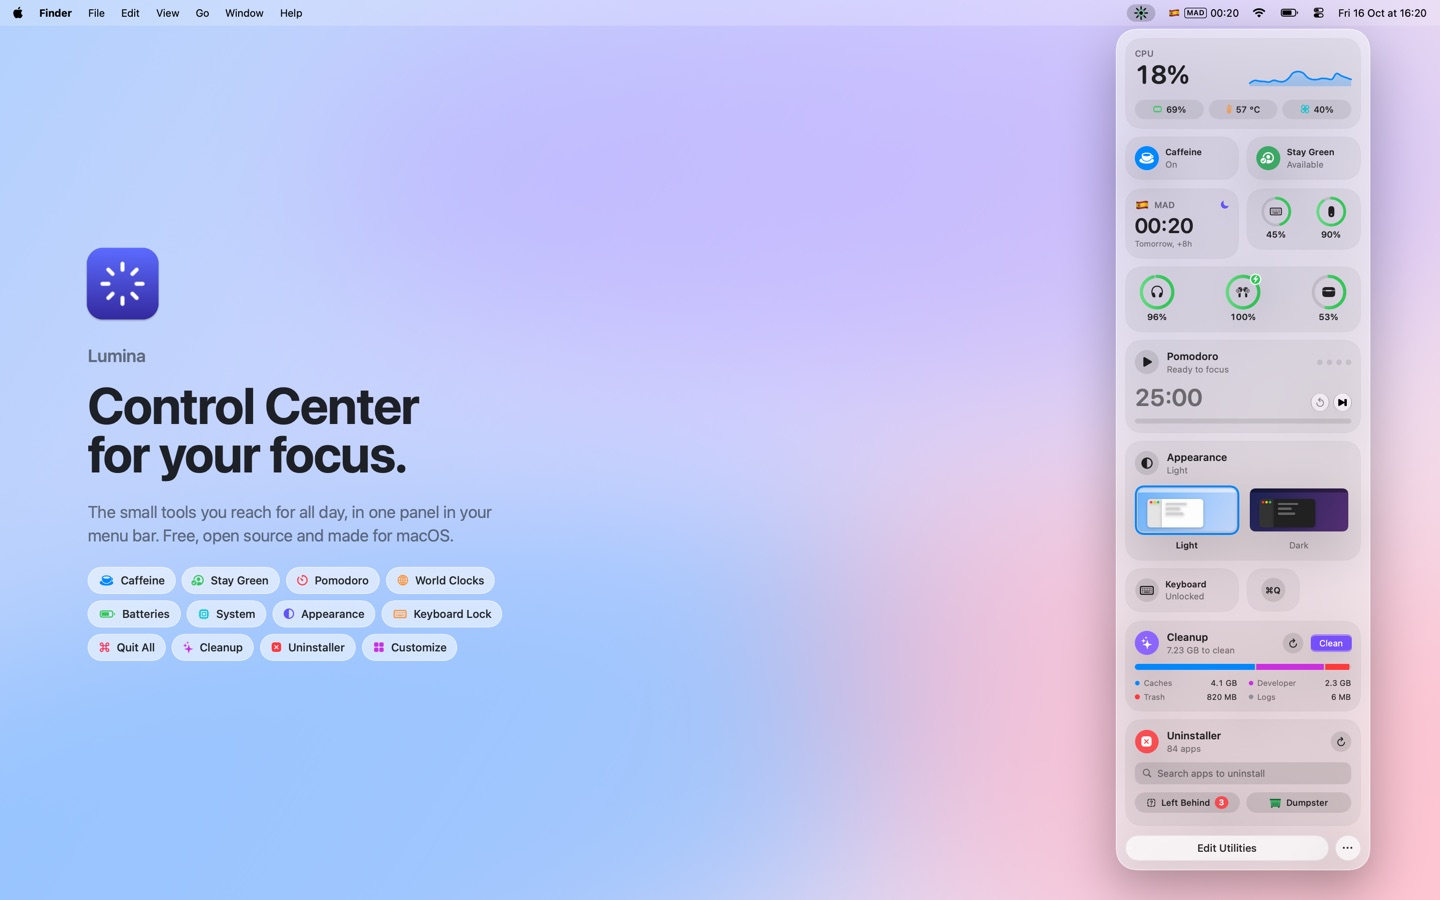
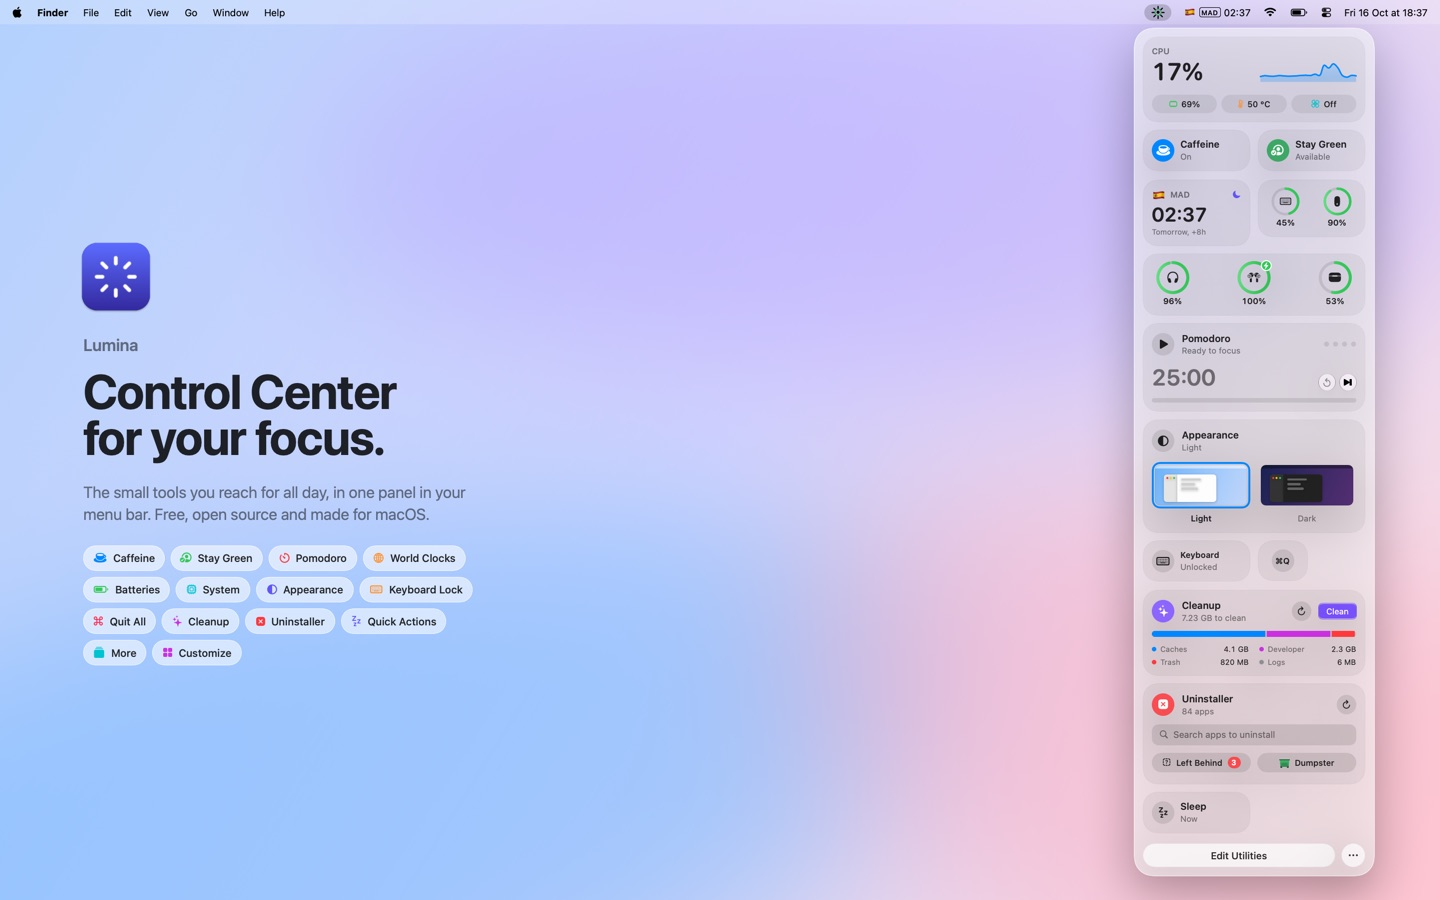
Add the More section and quick actions to the marketing images
The More section gets a feature card showing it open below two tiles,
rendered from a store whose last tiles are tucked into the section. The
quick actions get their own card, and the heroes show Sleep at the end of
the panel and a pill for each new feature. The README gallery lists both.

Changed region(s): [[0.75, 0.0, 1.0, 0.9956], [0.0312, 0.2489, 0.3438, 0.7467], [0.0312, 0.0, 0.2188, 0.0311]]

diff --git a/scripts/marketing/main.swift b/scripts/marketing/main.swift
@@ -45,9 +45,9 @@ enum Tile {
 /// A store showing exactly `tiles`, in order. Uses a throwaway defaults
 /// suite, so renders don't depend on (or change) the saved layout.
 @MainActor
-func makeStore(_ tiles: [Tile]) -> UtilityStore {
+func makeStore(_ tiles: [Tile], more: [Tile] = []) -> UtilityStore {
     let store = UtilityStore(defaults: UserDefaults(suiteName: "lumina.render.\(UUID().uuidString)")!)
-    let ids = tiles.compactMap { tile -> String? in
+    let ids = (tiles + more).compactMap { tile -> String? in
         switch tile {
         case .utility(let id):
             return id
@@ -67,6 +67,12 @@ func makeStore(_ tiles: [Tile]) -> UtilityStore {
     }
     let byID = Dictionary(uniqueKeysWithValues: store.utilities.map { ($0.id, $0) })
     store.reorder(ids.compactMap { byID[$0] })
+    if !more.isEmpty {
+        // The last `more.count` tiles go in the More section, shown open.
+        let all = ids.compactMap { byID[$0] }
+        store.reorder(main: Array(all.dropLast(more.count)), more: Array(all.suffix(more.count)))
+        store.isMoreOpen = true
+    }
     return store
 }
 
@@ -100,7 +106,7 @@ func heroLayout() -> [Tile] {
     }
     var tiles = heroTiles
     // Edit mode isn't a tile.
-    for feature in Feature.everything where !feature.isEditing {
+    for feature in Feature.everything where !feature.isEditing && feature.moreTiles.isEmpty {
         let isShown = !utilityIDs.isDisjoint(with: feature.utilityIDs)
             || (feature.newItem == .worldClock && hasClock)
             || (feature.newItem == .batteries && hasBatteries)
@@ -133,6 +139,8 @@ struct Feature {
     var isEditing = false
     /// Something to show beside the tiles, like a settings page.
     var accessory: Accessory? = nil
+    /// Tiles shown in the More section, open, below `tiles`.
+    var moreTiles: [Tile] = []
 
     enum Accessory { case keepOpen }
 
@@ -229,6 +237,13 @@ struct Feature {
             detail: "Put your Mac to sleep, silence every sound, or empty the Trash, in half or quarter tiles. Sleep and Empty Trash ask for a second click first.",
             utilityIDs: ["sleep", "silence", "emptyTrash", "compactSleep", "compactSilence", "compactEmptyTrash"],
             tiles: [.utility("sleep"), .utility("silence"), .utility("emptyTrash"), .utility("compactSleep"), .utility("compactSilence")]
+        ),
+        Feature(
+            slug: "more-section", name: "More", symbol: "rectangle.stack.fill", tint: .teal,
+            headline: "Ready, out of sight.",
+            detail: "Keep utilities set up but tucked away in the More section. Open it as a row below your tiles, a second page, or a stack of cards.",
+            tiles: [.utility("caffeine"), .utility("stayGreen")],
+            moreTiles: [.utility("keyboardLock"), .utility("quitAll"), .utility("compactSilence"), .utility("sleep"), .utility("emptyTrash")]
         ),
         Feature(
             slug: "customize", name: "Customize", symbol: "square.grid.2x2.fill", tint: .purple,
@@ -401,6 +416,31 @@ struct Tiles: View {
     var isEditing = false
 
     var body: some View {
+        if !store.moreUtilities.isEmpty {
+            // The utilities on show, the More section's header, and its
+            // utilities.
+            VStack(spacing: 10) {
+                grid(store.mainUtilities)
+                MoreHeader().environment(store)
+                grid(store.moreUtilities)
+            }
+            .frame(width: 296)
+        } else {
+            plain
+        }
+    }
+
+    private func grid(_ utilities: [Utility]) -> some View {
+        TileGridLayout(spacing: 10) {
+            ForEach(utilities, id: \.id) { utility in
+                tile(utility).layoutValue(key: TileSpan.self, value: utility.size.span)
+            }
+        }
+        .frame(width: 296)
+        .environment(store)
+    }
+
+    @ViewBuilder private var plain: some View {
         let utilities = store.visibleUtilities
         let span = utilities.map(\.size.span).reduce(0, +)
         let metrics = TileGridMetrics(width: 296, spacing: 10)
@@ -839,7 +879,7 @@ struct FeatureVisual: View {
             if feature.tiles.isEmpty {
                 return AnyView(FeatureIcon(symbol: feature.symbol, tint: feature.tint, size: 150))
             }
-            let store = makeStore(feature.tiles)
+            let store = makeStore(feature.tiles, more: feature.moreTiles)
             // The glass's wallpaper offset: about where it lands on the card.
             let origin = CGPoint(x: 420, y: 60)
             let panel = Panel(

diff --git a/README.md b/README.md
@@ -46,6 +46,10 @@
 </tr>
 <tr>
 <td width="50%"><a href="docs/marketing/features/uninstaller.png"><img src="docs/marketing/readme/features/uninstaller.jpg" alt="Uninstaller: Gone means gone."></a></td>
+<td width="50%"><a href="docs/marketing/features/quick-actions.png"><img src="docs/marketing/readme/features/quick-actions.jpg" alt="Quick Actions: One click, done."></a></td>
+</tr>
+<tr>
+<td width="50%"><a href="docs/marketing/features/more-section.png"><img src="docs/marketing/readme/features/more-section.jpg" alt="More: Ready, out of sight."></a></td>
 <td width="50%"><a href="docs/marketing/features/customize.png"><img src="docs/marketing/readme/features/customize.jpg" alt="Customize: Make it yours."></a></td>
 </tr>
 </table>
